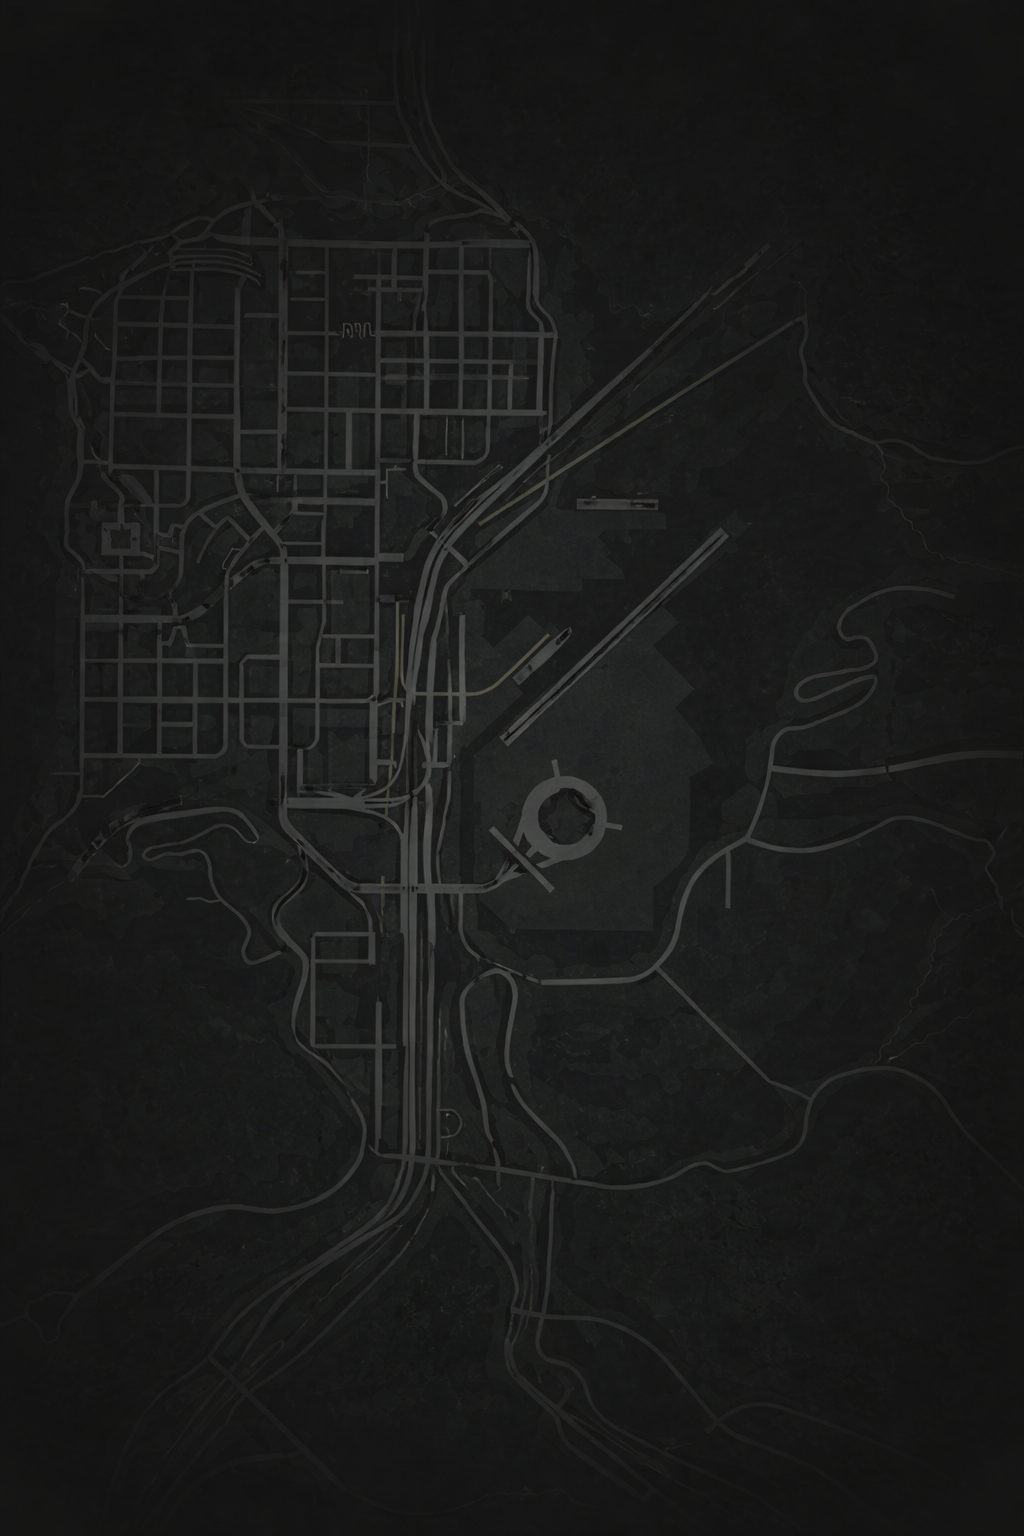
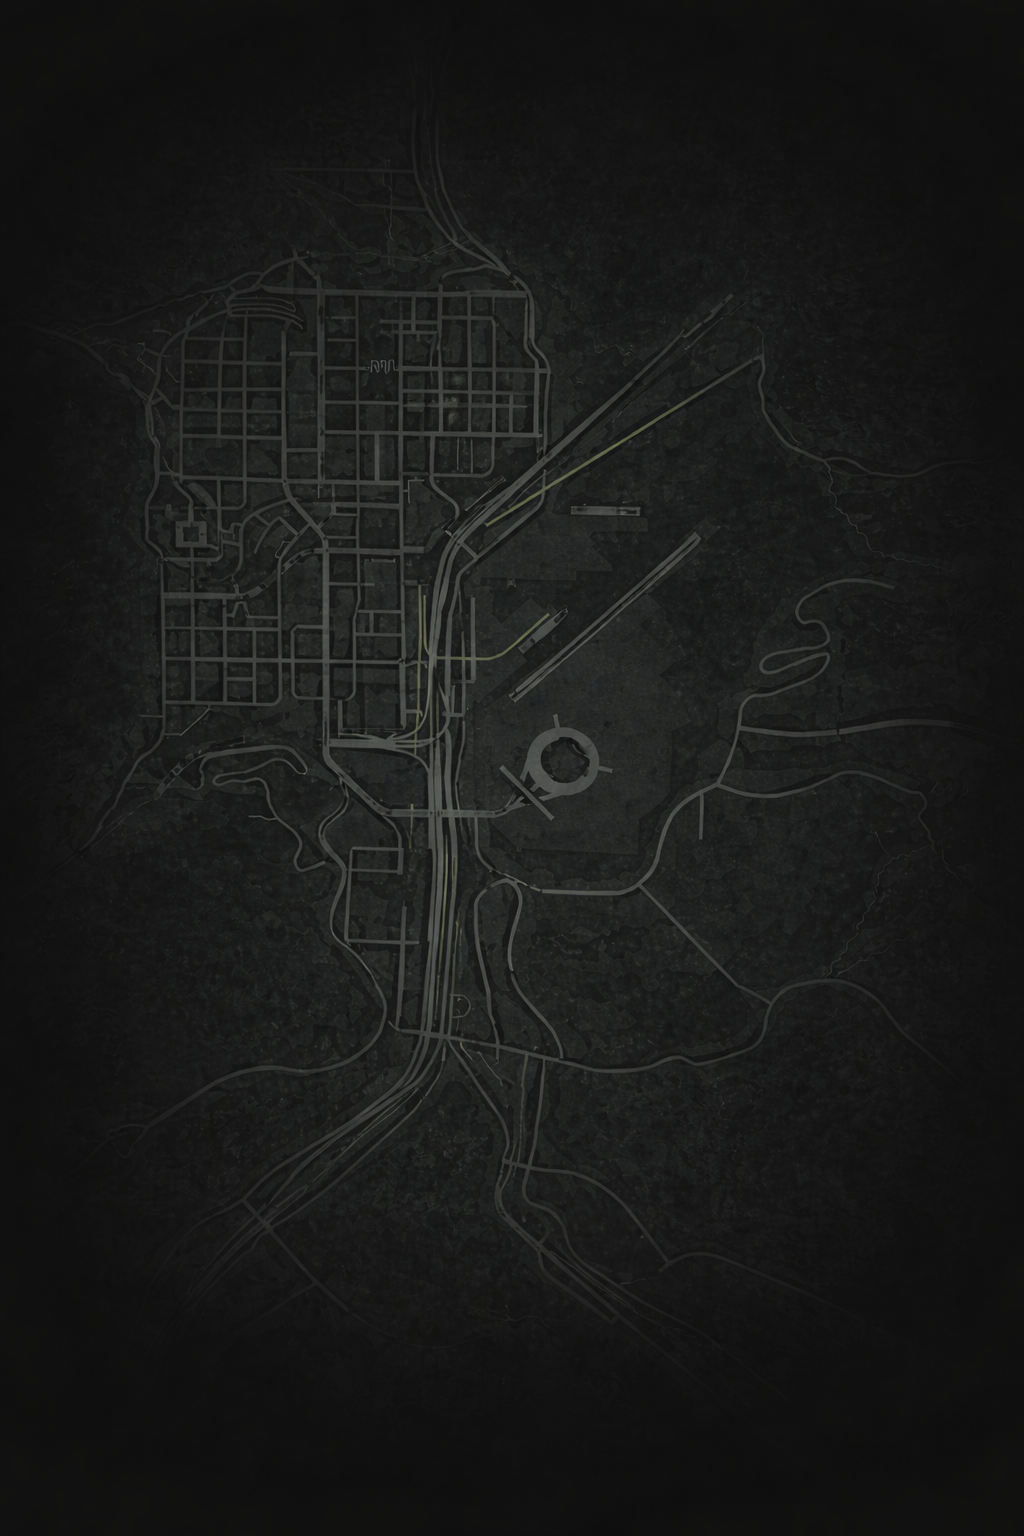
Changes

diff --git a/src/pages/Index.tsx b/src/pages/Index.tsx
@@ -133,7 +133,7 @@ const Index = () => {
             <img
               src={mapBg}
               alt=""
-              className="h-full w-full object-cover opacity-15"
+              className="h-full w-full object-cover"
             />
           </div>
 
